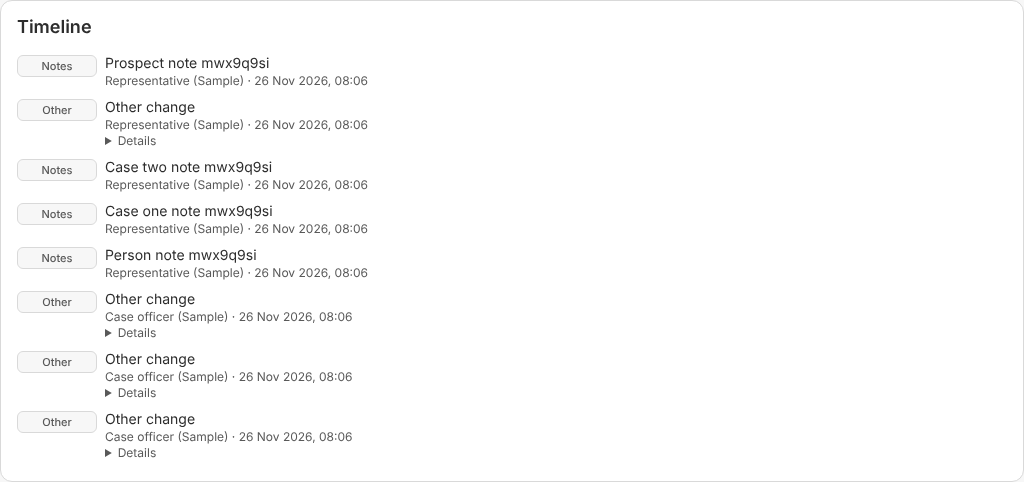
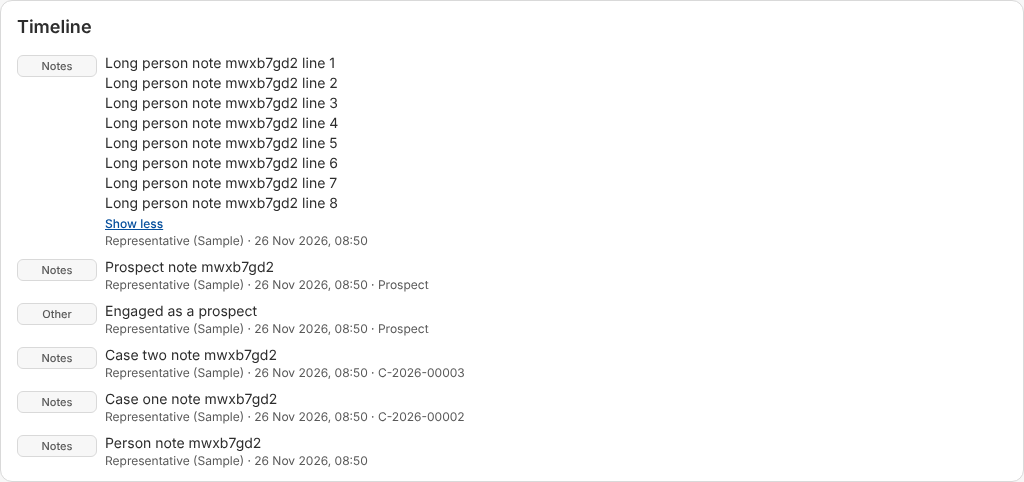
runtime: CS-NT1t round 1 fixes — prospect lines in words, long notes in full, the prospect key, the 500-line cap said, Minors
Review M1: prospect lines carry their type for words ("Engaged as a prospect", "Prospect won", …); a call's and a
note's words are sent, an audit or event summary (staff ids) never is. Review M2: a long note reads in full after "Show
all of it". Break M1: prospect lines need agent/prospect:show, as the prospect route does. Break M2: past the prospect's
newest 500 lines the end says so (prospectOlderHidden). Minors: only 404/403 skip the prospect source; an empty page with
older lines carries on from the floor; cases read eight at a time; case lines name their case number, prospect lines say
Prospect; client words for a 404, a Try again button, a fuller empty state. Tests PT3, PT4, PT7 (33/33).

Claude-Session: https://claude.ai/code/session_01XTe3gbvcnE5cXY1hfPMmCw

Changed region(s): [[0.0312, 0.1245, 0.4688, 0.9647], [0.0312, 0.3423, 0.0625, 0.3734], [0.0312, 0.2178, 0.0625, 0.249]]

diff --git a/ai-workers/problem-1-pathway-setup-and-form-filling/prototype/studio/web/src/runtime/case-notes.tsx b/ai-workers/problem-1-pathway-setup-and-form-filling/prototype/studio/web/src/runtime/case-notes.tsx
@@ -19,18 +19,23 @@ const KINDS = [["", "All"], ["NOTE", "Notes"], ["DOCUMENT", "Documents"], ["DECI
 const LINE_WORDS: Record<string, string> = {
   uploaded: "Document uploaded", "case.decision.recorded": "Decision recorded", "case.withdrawn": "Case withdrawn", "case.closed": "Case closed", "case.reopened": "Case reopened",
   "case.note.edited": "Note edited", "case.note.pinned": "Note pinned", "case.note.unpinned": "Note unpinned", "case.note.marked-client-visible": "Note shown to the client", "case.note.marked-internal": "Note made internal",
+  // CS-NT1t (review M1): a won prospect's lines on a person's timeline, by FO-2 part 4's names (ports/events/sales.ts).
+  "lead.created": "Lead arrived", "lead.taken": "Lead taken", "lead.engaged": "Engaged as a prospect", "lead.closed": "Lead closed", "lead.reopened": "Lead reopened",
+  "prospect.stage_moved": "Prospect moved to another stage", "prospect.lost": "Prospect marked lost", "prospect.won": "Prospect won", "prospect.unconverted": "Convert undone", "prospect.type_changed": "Prospect type changed",
 };
 const KIND_WORD: Record<string, string> = { NOTE: "Notes", DOCUMENT: "Documents", DECISION: "Decisions", ACTIVITY: "Other" };
-const lineWords = (l: { type: string; kind: string }) => LINE_WORDS[l.type] ?? `${KIND_WORD[l.kind] ?? "Other"} change`;
+const lineWords = (l: { type: string; kind: string; source?: string }) => LINE_WORDS[l.type] ?? (l.source === "prospect" ? (l.type.startsWith("person.") ? "Contact details changed" : "Prospect updated") : `${KIND_WORD[l.kind] ?? "Other"} change`);
+/** Lines whose words are written for people: a note, and a prospect's call (its summary is built from its fields). */
+const ownWords = (l: { source: string; type: string }) => l.source === "note" || (l.source === "prospect" && (l.type === "note" || l.type === "call"));
 const when = (at: string) => new Date(at).toLocaleString("en-GB", { day: "numeric", month: "short", year: "numeric", hour: "2-digit", minute: "2-digit" });
 const who = (n: string | null) => n ?? "Someone at the firm";
 const len = (s: string) => [...s.trim()].length;
 const newKey = () => (globalThis.crypto?.randomUUID?.() ?? `${Date.now()}-${Math.random()}`).replace(/[^A-Za-z0-9._:-]/g, "");
 /** A refusal in the screen's words (break m1, m2): the 403 names the act; a 404 covers another firm and a case outside the
  *  person's scope alike (the API answers both the same way, BR-20). */
-const errWords = (e: unknown, what: string, act: "add" | "change" | "read" = "add") => !(e instanceof StaffApiError) ? "Could not reach the server. Your words are kept; try again."
+const errWords = (e: unknown, what: string, act: "add" | "change" | "read" = "add", subject: "case" | "client" = "case") => !(e instanceof StaffApiError) ? (act === "read" ? "Could not reach the server. Try again." : "Could not reach the server. Your words are kept; try again.")
   : e.status === 403 ? (act === "add" ? "Your role can read notes but not add them." : act === "change" ? "Your role does not allow this change now." : "Your role cannot read this.")
-    : e.status === 404 ? "This case is not in the firm you are signed in to, or your role cannot open it."
+    : e.status === 404 ? `This ${subject} is not in the firm you are signed in to, or your role cannot open it.`
       : e.field("text") ?? e.field("mentions") ?? e.message ?? `The ${what} was not saved.`;
 type Draft = { text: string; picked: { staffId: string; name: string }[]; forClient: boolean };
 /** Review M2 (concept §4): the panel keeps one height while it loads and after, so nothing below it moves: the writer
@@ -247,6 +252,8 @@ export function Timeline({ path, chips = false, heading = 3 }: { path: string; c
     getNextPageParam: (p) => (p.more ? p.nextCursor : null),
   });
   const lines = (q.data?.pages ?? []).flatMap((p) => p.lines);   // access lines are left out by the API (ruling 2)
+  const [long, setLong] = React.useState<Set<string>>(new Set());
+  const capped = (q.data?.pages ?? []).some((p) => p.prospectOlderHidden);
   const shown = lines.slice(0, limit);
   const older = async () => { if (lines.length <= limit && q.hasNextPage) await q.fetchNextPage(); setLimit(limit + 50); };
   return (
@@ -257,19 +264,21 @@ export function Timeline({ path, chips = false, heading = 3 }: { path: string; c
           className={`shrink-0 rounded-full border px-3 py-1 text-xs font-medium focus-visible:ring-[3px] focus-visible:ring-ring/50 ${kind === k ? "border-primary bg-primary text-primary-foreground" : "border-border bg-surface-raised"}`} data-timeline-kind={k || "ALL"}>{label}</button>)}
       </div> : null}
       <div role="region" aria-label="Timeline lines" tabIndex={0} className={`${LINES_H} space-y-3 ${BOX}`}>
-      {q.isLoading ? <Skeleton className={`${LINES_H} w-full`} /> : q.isError ? <Notice tone="danger" title="The timeline could not be loaded">{errWords(q.error, "timeline", "read")}</Notice>
-        : !shown.length ? <p className="text-sm text-text-muted" data-timeline-empty>{chips ? "Nothing has happened on this case yet." : "Nothing has happened for this client yet."}</p>
-          : <ol className="space-y-2" data-timeline-lines>{shown.map((l) => (
-              <li key={`${l.source}:${l.refId}`} className="flex gap-2 text-sm" data-timeline-line={l.kind} data-timeline-type={l.type}>
+      {q.isLoading ? <Skeleton className={`${LINES_H} w-full`} /> : q.isError ? <Notice tone="danger" title="The timeline could not be loaded" action={<Button size="sm" variant="secondary" busy={q.isFetching} onClick={() => void q.refetch()}>Try again</Button>}>{errWords(q.error, "timeline", "read", chips ? "case" : "client")}</Notice>
+        : !shown.length ? <p className="text-sm text-text-muted" data-timeline-empty>{chips ? "Nothing has happened on this case yet." : "Nothing has happened for this client yet. Notes on this client, what happens on their cases and their prospect's history will show here."}</p>
+          : <ol className="space-y-2" data-timeline-lines>{shown.map((l) => { const id = `${l.source}:${l.refId}`, cut = ownWords(l) && (l.summary.split("\n").length > 2 || l.summary.length > 200); return (
+              <li key={id} className="flex gap-2 text-sm" data-timeline-line={l.kind} data-timeline-type={l.type}>
                 <Pill className="mt-0.5 w-20 self-start justify-center">{KIND_WORD[l.kind]}</Pill>
                 <div className="min-w-0 flex-1">
-                  {l.source === "note" || (l.source === "prospect" && l.kind === "NOTE") ? <p className="line-clamp-2 whitespace-pre-wrap [overflow-wrap:anywhere]" data-timeline-note><bdi>{l.summary}</bdi></p> : <p>{lineWords(l)}</p>}
-                  <p className="text-xs text-text-muted">{who(l.actorName)} · <time dateTime={l.at} title={new Date(l.at).toString()}>{when(l.at)}</time></p>
-                  {l.source === "audit" || (l.source === "prospect" && l.kind !== "NOTE") ? <details className="text-xs text-text-muted"><summary className="cursor-pointer">Details</summary><span className="[overflow-wrap:anywhere]">{l.summary}</span></details> : null}
+                  {ownWords(l) ? <><p className={`whitespace-pre-wrap [overflow-wrap:anywhere] ${cut && !long.has(id) ? "line-clamp-2" : ""}`} data-timeline-note><bdi>{l.summary}</bdi></p>
+                    {cut ? <button type="button" className="text-xs font-medium text-text-link underline" aria-expanded={long.has(id)} onClick={() => setLong((s) => { const n = new Set(s); if (n.has(id)) n.delete(id); else n.add(id); return n; })} data-timeline-show-more>{long.has(id) ? "Show less" : "Show all of it"}</button> : null}</>
+                    : <p>{lineWords(l)}</p>}
+                  <p className="text-xs text-text-muted">{who(l.actorName)} · <time dateTime={l.at} title={new Date(l.at).toString()}>{when(l.at)}</time>{l.caseNumber ? <> · <span data-timeline-case>{l.caseNumber}</span></> : l.source === "prospect" ? " · Prospect" : null}</p>
+                  {l.source === "audit" ? <details className="text-xs text-text-muted"><summary className="cursor-pointer">Details</summary><span className="[overflow-wrap:anywhere]">{l.summary}</span></details> : null}
                 </div>
-              </li>))}</ol>}
+              </li>); })}</ol>}
       {shown.length && (lines.length > limit || q.hasNextPage) ? <Button size="sm" variant="secondary" busy={q.isFetchingNextPage} onClick={() => void older()} data-timeline-older>Show older</Button>
-        : shown.length ? <p className="text-xs text-text-muted" data-timeline-end>{chips ? "That is everything on this case." : "That is everything for this client."}</p> : null}
+        : shown.length ? <p className="text-xs text-text-muted" data-timeline-end>{capped ? "Older lines of the prospect are on the prospect's own page (only its newest 500 are shown here)." : chips ? "That is everything on this case." : "That is everything for this client."}</p> : null}
       </div>
     </div>
   );

diff --git a/ai-workers/problem-1-pathway-setup-and-form-filling/prototype/studio/tests/check_csnt1t_person_timeline.ts b/ai-workers/problem-1-pathway-setup-and-form-filling/prototype/studio/tests/check_csnt1t_person_timeline.ts
@@ -94,17 +94,30 @@ try {
   const t3 = await call("GET", `/runtime/clients/${P}/timeline`, undefined, { token: tA });
   const pl: { summary: string; source: string }[] = t3.body?.lines ?? [];
   ok("PT3 pass: the won prospect's lines show, its note exactly once", !!prospectId && pnote.status === 201 && pl.filter((l) => l.summary === `Prospect note ${run}`).length === 1 && pl.some((l) => l.source === "prospect"), { prospectId, note: pnote.status, n: pl.filter((l) => l.summary === `Prospect note ${run}`).length });
+  const pAll: { summary: string; source: string; type: string }[] = pl.filter((l) => l.source === "prospect") as never;
+  ok("PT3 pass (review M1): the prospect's lines carry their type (lead.engaged) for words, and only a note's or a call's words are sent", pAll.some((l) => l.type === "lead.engaged") && pAll.every((l) => l.type === "note" || l.type === "call" || l.summary === ""));
+  ok("PT3 fail (break S3 on this route): no staff id in any prospect line", !pAll.some((l) => /[0-9a-f]{8}-[0-9a-f]{4}-/.test(l.summary)));
+  sql("with d as (delete from platform_role_permission where role = 'CASE_MANAGER' and permission_key = 'agent/prospect:show' returning 1) select count(*) from d") !== "0" && removed.push(["CASE_MANAGER", "agent/prospect:show"]);
+  const noKey = await call("GET", `/runtime/clients/${P}/timeline`, undefined, { token: tT });
+  ok("PT3 fail (break M1): without agent/prospect:show the person's timeline shows no prospect line", noKey.status === 200 && !(noKey.body?.lines ?? []).some((l: { source: string }) => l.source === "prospect") && has(noKey.body, `Person note ${run}`), noKey.status);
+  putBack();
   // ---- PT4: paging -----------------------------------------------------------------------------------------------
   sql(`insert into audit_event (id, workspace_id, at, actor, action, entity, entity_key, summary, case_id) select gen_random_uuid(), '${ws}', now() - interval '1 hour', 'staff:x', 'uploaded', 'case document', gen_random_uuid()::text, 'Paged upload ${run} ' || g, (case when g % 2 = 0 then '${A1}' else '${A2}' end)::uuid from generate_series(1, 120) g`);
-  const seen: string[] = [];
+  const seen: string[] = [], all: string[] = [];
   let cursor: string | null = null, pages = 0, okCursor = true;
   do {
     const r: Res = await call("GET", `/runtime/clients/${P}/timeline${cursor ? `?cursor=${cursor}` : ""}`, undefined, { token: tA });
     if (r.status !== 200) { okCursor = false; break; }
-    for (const l of r.body.lines as { summary: string }[]) { const m = /^Paged upload \S+ (\d+)$/.exec(l.summary); if (m) seen.push(m[1]); }
+    for (const l of r.body.lines as { summary: string; source: string; refId: string }[]) { all.push(`${l.source}:${l.refId}`); const m = /^Paged upload \S+ (\d+)$/.exec(l.summary); if (m) seen.push(m[1]); }
     cursor = r.body.nextCursor; pages++;
   } while (cursor && pages < 10);
   ok("PT4 pass: page by page, each of the 120 lines exactly once, over at least 3 pages", okCursor && seen.length === 120 && new Set(seen).size === 120 && pages >= 3, { n: seen.length, distinct: new Set(seen).size, pages });
+  ok("PT4 pass (review 5): across all pages no line of any source repeats (notes and prospect lines included)", all.length > 120 && new Set(all).size === all.length, { n: all.length, distinct: new Set(all).size });
+  // Break M2: a prospect with more than 500 lines: the end says the older ones are on the prospect's own page.
+  sql(`insert into fo_note (id, firm_id, person_id, prospect_id, visibility, text, by_actor, created_at) select gen_random_uuid(), n.firm_id, n.person_id, n.prospect_id, 'INTERNAL', 'Bulk prospect note ${run} ' || g, n.by_actor, now() - interval '2 hours' - (g || ' seconds')::interval from fo_note n, generate_series(1, 600) g where n.prospect_id = '${prospectId}' and n.text = 'Prospect note ${run}'`);
+  let c2: string | null = null, endFlag = false, n2 = 0;
+  do { const r: Res = await call("GET", `/runtime/clients/${P}/timeline${c2 ? `?cursor=${c2}` : ""}`, undefined, { token: tA }); if (r.status !== 200) break; if (!r.body.more) endFlag = !!r.body.prospectOlderHidden; c2 = r.body.nextCursor; n2++; } while (c2 && n2 < 40);
+  ok("PT4 fail (break M2): over 500 prospect lines, the last page says older prospect lines are hidden (never a silent \"everything\")", endFlag, { pages: n2 });
   const forged = await call("GET", `/runtime/clients/${P}/timeline?cursor=${Buffer.from('["1","x","y"]').toString("base64url")}`, undefined, { token: tA });
   ok("PT4 fail: a forged cursor → 400 INVALID on cursor", forged.status === 400 && forged.body?.fields?.cursor, forged.status);
   // ---- PT5 -------------------------------------------------------------------------------------------------------
@@ -118,6 +131,8 @@ try {
   const t6 = await call("GET", `/runtime/clients/${P}/timeline`, undefined, { token: tT });
   ok("PT6 fail: a Case manager who cannot open the cases sees the person's own note but none of the cases' lines", t6.status === 200 && has(t6.body, `Person note ${run}`) && !(t6.body?.lines ?? []).some((l: { caseId: string | null }) => l.caseId), t6.status);
   putBack();
+  const longNote = Array.from({ length: 8 }, (_, i) => `Long person note ${run} line ${i + 1}`).join("\n");
+  await add(`/runtime/clients/${P}/notes`, longNote);
   // ---- PT7 by screens ------------------------------------------------------------------------------------------------
   const browser = await chromium.launch({ headless: true, ...(process.platform === "darwin" ? { channel: "chrome" } : existsSync("/opt/pw-browsers/chromium") ? { executablePath: "/opt/pw-browsers/chromium" } : {}) });
   try {
@@ -134,8 +149,14 @@ try {
         await pg.waitForFunction(([n]) => document.querySelectorAll("[data-client-timeline] [data-timeline-line]").length > n, [before], { timeout: 30000 });
       }
       const text = await tl.innerText();
+      ok(`PT7 pass at ${width} (review M1, m3): prospect lines read in words (\"Engaged as a prospect\"), case lines name their case`, /Engaged as a prospect/.test(text) && (await tl.locator("[data-timeline-case]").count()) > 0 && !/Other change/.test(text.split("Engaged as a prospect")[0] ?? ""));
       ok(`PT7 pass at ${width}: the client page's Timeline shows the person's note, both cases' notes and the prospect's note (Show older as needed)`, [`Person note ${run}`, `Case one note ${run}`, `Case two note ${run}`, `Prospect note ${run}`].every((s) => text.includes(s)), text.slice(0, 300));
       const axe = await new AxeBuilder({ page: pg }).include("[data-client-timeline]").withTags(["wcag2a", "wcag2aa", "wcag21a", "wcag21aa", "wcag22aa"]).analyze();
+      const longLine = tl.locator("[data-timeline-line]").filter({ hasText: `Long person note ${run} line 1` }).first();
+      const folded = async () => longLine.locator("[data-timeline-note]").evaluate((e) => e.scrollHeight > e.clientHeight + 2);
+      const wasFolded = await folded();
+      await longLine.locator("[data-timeline-show-more]").click();
+      ok(`PT7 (review M2) at ${width}: a long note starts folded and reads in full after \"Show all of it\"`, wasFolded && !(await folded()));
       ok(`PT7 axe (WCAG 2.2 AA) at ${width}: the client page's Timeline`, axe.violations.length === 0, axe.violations.map((v) => `${v.id}: ${v.nodes[0]?.target}`));
       ok(`PT7 at ${width}: no sideways scroll, no page error`, !(await pg.evaluate(() => document.documentElement.scrollWidth > window.innerWidth + 1)) && errors.length === 0, errors.slice(0, 3));
       if (process.env.SHOTS) await tl.screenshot({ path: `${process.env.SHOTS}/client-timeline-${width}.png` });

diff --git a/ai-workers/problem-1-pathway-setup-and-form-filling/prototype/studio/api/src/case-notes/person-timeline.ts b/ai-workers/problem-1-pathway-setup-and-form-filling/prototype/studio/api/src/case-notes/person-timeline.ts
@@ -18,7 +18,11 @@ import { CaseTimeline, cmp, TIMELINE_PAGE, type CaseTimelineLine, type Key } fro
 import { Timeline as ProspectTimeline } from "../front-office/sales/timeline.ts";
 
 type Source = "audit" | "note" | "prospect";
-export type PersonTimelineLine = Omit<CaseTimelineLine, "source"> & { source: Source; caseId: string | null };
+export type PersonTimelineLine = Omit<CaseTimelineLine, "source"> & { source: Source; caseId: string | null; caseNumber: string | null };
+/** The front office's key for reading a prospect (its route's, routes.ts): checked here too, since the service is called
+ *  directly (break M1). */
+const PROSPECT_SHOW = "agent/prospect:show";
+const statusOf = (e: unknown) => (e as { getStatus?: () => number })?.getStatus?.() ?? (e as { status?: number })?.status;
 const UUID = /^[0-9a-f]{8}-[0-9a-f]{4}-[0-9a-f]{4}-[0-9a-f]{4}-[0-9a-f]{12}$/i;
 const BIGINT_MAX = 9223372036854775807n;
 const invalid = (field: string, detail: string): never => problem(400, "Check the details", detail, { code: "INVALID", fields: { [field]: detail } });
@@ -53,33 +57,43 @@ export class PersonTimeline {
     // 1. The person's own notes.
     const own = await this.notes.list(ctx, s.id, "client");
     const noteLines = own.notes.map((n) => ({ k: { us: BigInt(Date.parse(n.writtenAt)) * 1000n, source: "note", id: n.id } as Key, line: {
-      at: n.writtenAt, kind: "NOTE" as const, type: "note", actor: `staff:${n.author.staffId}`, actorName: n.author.name, summary: n.text, refId: n.id, source: "note" as const, caseId: null, visibility: n.visibility, pinned: n.pinned } }));
+      at: n.writtenAt, kind: "NOTE" as const, type: "note", actor: `staff:${n.author.staffId}`, actorName: n.author.name, summary: n.text, refId: n.id, source: "note" as const, caseId: null, caseNumber: null, visibility: n.visibility, pinned: n.pinned } }));
     items.push(...noteLines.filter((x) => older(x.k)));
 
     // 2. Each case they are the client of, as its own timeline reads it (outside the reader's caseScope: left out).
-    const caseIds = (await this.db.case.findMany({ where: { clientId: s.id }, select: { id: true }, orderBy: { id: "asc" } })).map((c) => c.id);
-    for (const caseId of caseIds) {
-      const page = await this.cases.pageAfter(ctx, caseId, cursor).catch((e: unknown) => { if ((e as { status?: number })?.status === 404 || (e as { getStatus?: () => number })?.getStatus?.() === 404) return null; throw e; });
-      if (!page) continue;
-      items.push(...page.lines.map(({ line, k }) => ({ k, line: { ...line, caseId } })));
-      if (page.more) lift(page.last);
+    // Break m3: read in parallel, eight cases at a time (each is one case's own timeline read).
+    const cases = await this.db.case.findMany({ where: { clientId: s.id }, select: { id: true, caseNumber: true }, orderBy: { id: "asc" } });
+    for (let i = 0; i < cases.length; i += 8) {
+      const pages = await Promise.all(cases.slice(i, i + 8).map((c) => this.cases.pageAfter(ctx, c.id, cursor).then((page) => ({ c, page }), (e: unknown) => { if (statusOf(e) === 404) return { c, page: null }; throw e; })));
+      for (const { c, page } of pages) {
+        if (!page) continue;
+        items.push(...page.lines.map(({ line, k }) => ({ k, line: { ...line, caseId: c.id, caseNumber: c.caseNumber } })));
+        if (page.more) lift(page.last);
+      }
     }
 
     // 3. Their won prospect's lines, once (FO-8's link).
     const prospectId = (await this.db.caseClient.findUnique({ where: { id: s.id }, select: { prospectId: true } }))?.prospectId ?? null;
-    if (prospectId && this.prospects) {
-      const p = await this.prospects.prospect(ctx, prospectId).catch(() => null);   // 404 for this reader: left out
+    let oldestProspect: Key | null = null, prospectCapped = false;
+    if (prospectId && this.prospects && ctx.keys.includes(PROSPECT_SHOW)) {
+      // Not this reader's to see (404/403): left out; any other failure is a failure (break m1, review 6).
+      const p = await this.prospects.prospect(ctx, prospectId).catch((e: unknown) => { const st = statusOf(e); if (st === 404 || st === 403) return null; throw e; });
       for (const l of p?.lines ?? []) {
         const k: Key = { us: BigInt(Date.parse(l.at)) * 1000n, source: "prospect", id: l.refId && UUID.test(l.refId) ? l.refId.toLowerCase() : createHash("sha256").update(`${l.kind}|${l.type}|${l.at}|${l.refId ?? ""}`).digest("hex").slice(0, 32) };
-        if (older(k)) items.push({ k, line: { at: l.at, kind: KIND[l.kind] ?? "ACTIVITY", type: l.type, actor: l.actor ?? "system:front-office", actorName: l.actorName, summary: l.summary, refId: k.id, source: "prospect", caseId: null } });
+        if (!oldestProspect || cmp(k, oldestProspect) < 0) oldestProspect = k;
+        // A call's and a note's words are written for people; an audit or event summary names staff ids and is never sent.
+        if (older(k)) items.push({ k, line: { at: l.at, kind: KIND[l.kind] ?? "ACTIVITY", type: l.kind === "CALL" ? "call" : l.kind === "NOTE" ? "note" : l.type, actor: l.actor ?? "system:front-office", actorName: l.actorName, summary: l.kind === "CALL" || l.kind === "NOTE" ? l.summary : "", refId: k.id, source: "prospect", caseId: null, caseNumber: null } });
       }
+      prospectCapped = !!p?.more;
       if (p?.more) lift(items.filter((x) => x.k.source === "prospect").sort((a, b) => cmp(a.k, b.k))[0]?.k ?? null);
     }
 
     const merged = items.filter((x) => !floor || cmp(x.k, floor) >= 0).sort((a, b) => cmp(b.k, a.k));
     const page = merged.slice(0, TIMELINE_PAGE);
     const more = merged.length > TIMELINE_PAGE || floor !== null;
-    const last = page.at(-1)?.k ?? null;
-    return { lines: page.map((x) => x.line), more, nextCursor: more && last ? encode(last) : null, pageSize: TIMELINE_PAGE };
+    const last = page.at(-1)?.k ?? floor;   // break m2: an empty page that still has older lines carries on from the floor
+    // Break M2: the prospect's own read keeps its newest 500 lines; once the pages pass the oldest of them, say so.
+    const prospectOlderHidden = prospectCapped && !!oldestProspect && (!more || (!!last && cmp(last, oldestProspect) <= 0));
+    return { lines: page.map((x) => x.line), more, nextCursor: more && last ? encode(last) : null, pageSize: TIMELINE_PAGE, ...(prospectOlderHidden ? { prospectOlderHidden: true } : {}) };
   }
 }

diff --git a/ai-workers/problem-1-pathway-setup-and-form-filling/prototype/studio/contracts/runtime.ts b/ai-workers/problem-1-pathway-setup-and-form-filling/prototype/studio/contracts/runtime.ts
@@ -605,7 +605,7 @@ export const CaseNotesView = z.object({ notes: z.array(CaseNote), maxLength: z.n
 export const CaseNoteHistory = z.object({ id: z.string(), versions: z.array(z.object({ versionId: z.string(), version: z.number(), text: z.string(), visibility: z.string(), pinned: z.boolean(), by: NoteWho, at: z.string() })) });
 export type CaseNoteHistory = z.infer<typeof CaseNoteHistory>;
 export const CaseTimelinePage = z.object({ lines: z.array(z.object({ at: z.string(), kind: z.enum(["NOTE", "DOCUMENT", "DECISION", "ACTIVITY"]), type: z.string(), actor: z.string(), actorName: z.string().nullable(),
-  summary: z.string(), refId: z.string(), source: z.enum(["audit", "note", "prospect"]), caseId: z.string().nullable().optional(), visibility: z.string().optional(), pinned: z.boolean().optional() })), more: z.boolean(), nextCursor: z.string().nullable(), pageSize: z.number() });
+  summary: z.string(), refId: z.string(), source: z.enum(["audit", "note", "prospect"]), caseId: z.string().nullable().optional(), caseNumber: z.string().nullable().optional(), visibility: z.string().optional(), pinned: z.boolean().optional() })), more: z.boolean(), nextCursor: z.string().nullable(), pageSize: z.number(), prospectOlderHidden: z.boolean().optional() });
 export type CaseTimelinePage = z.infer<typeof CaseTimelinePage>;
 export const CaseNotePeople = z.object({ people: z.array(z.object({ staffId: z.string(), name: z.string(), onCase: z.boolean() })) });
 export type CaseNotePeople = z.infer<typeof CaseNotePeople>;
